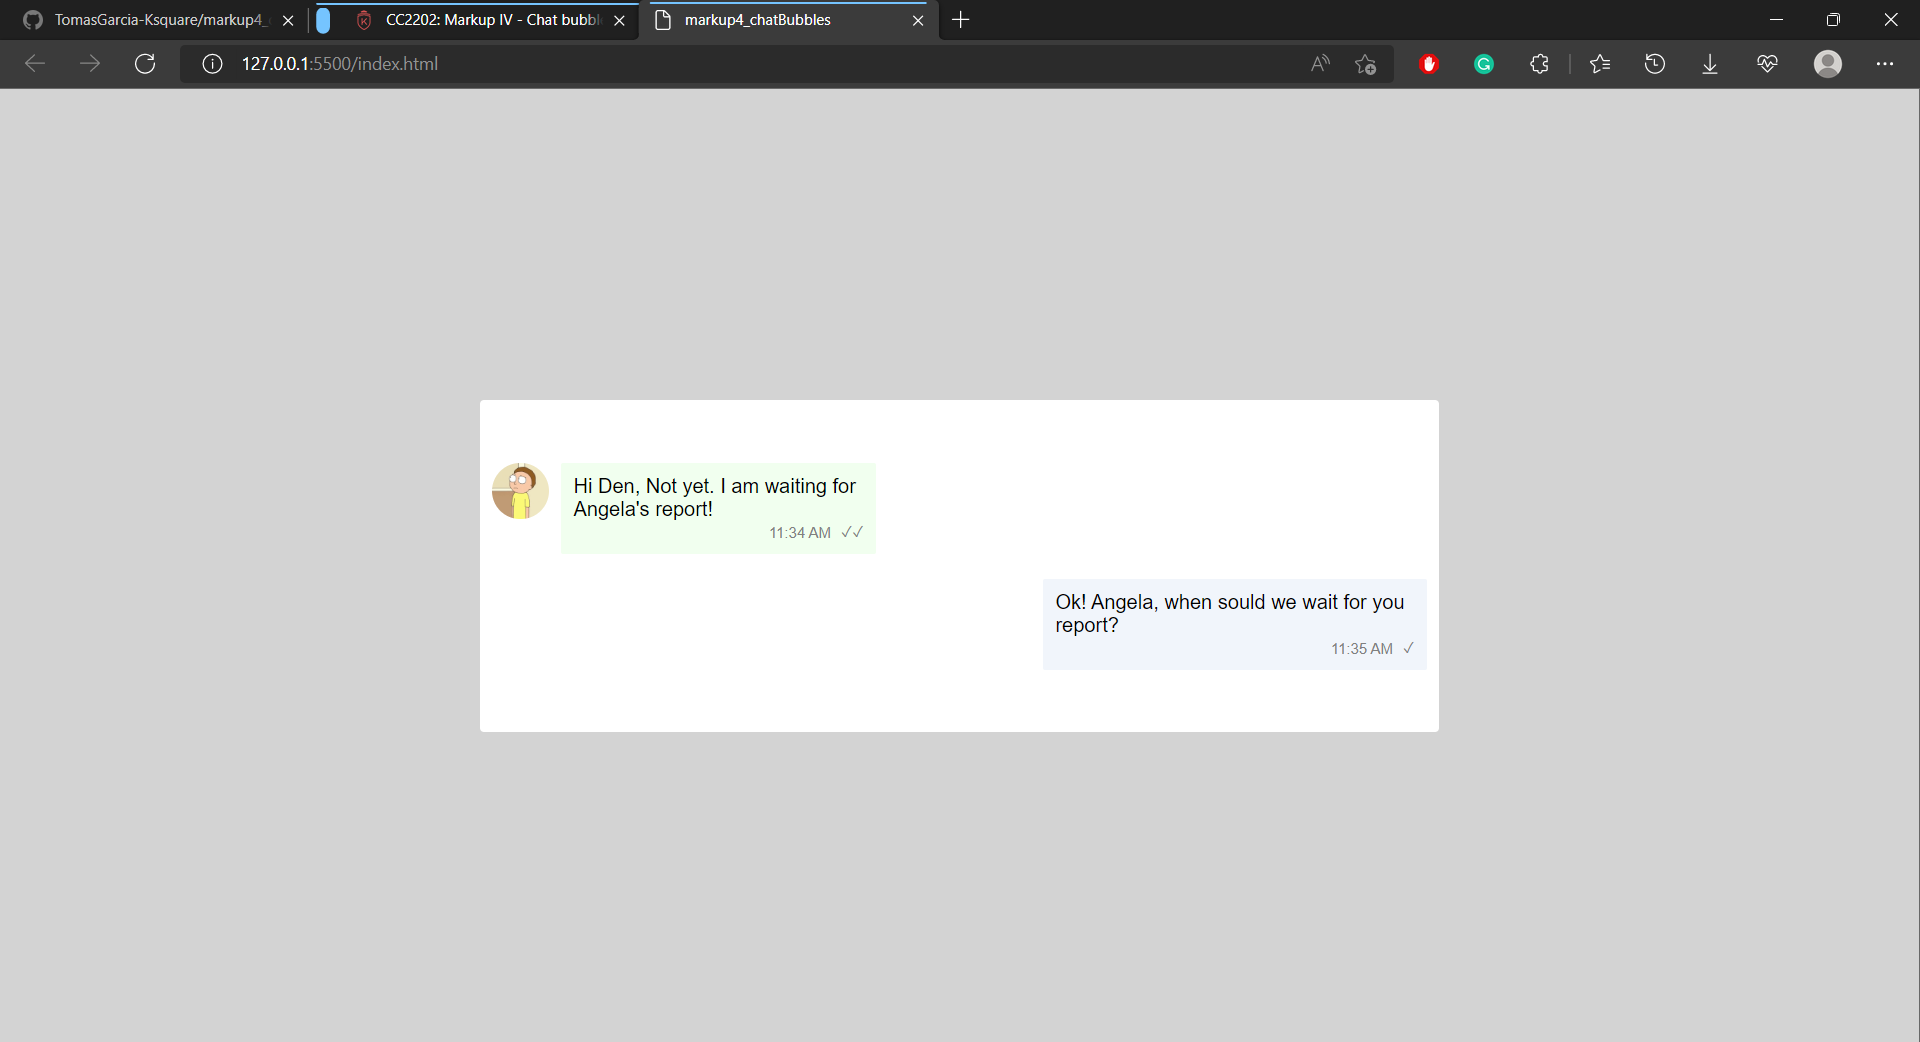
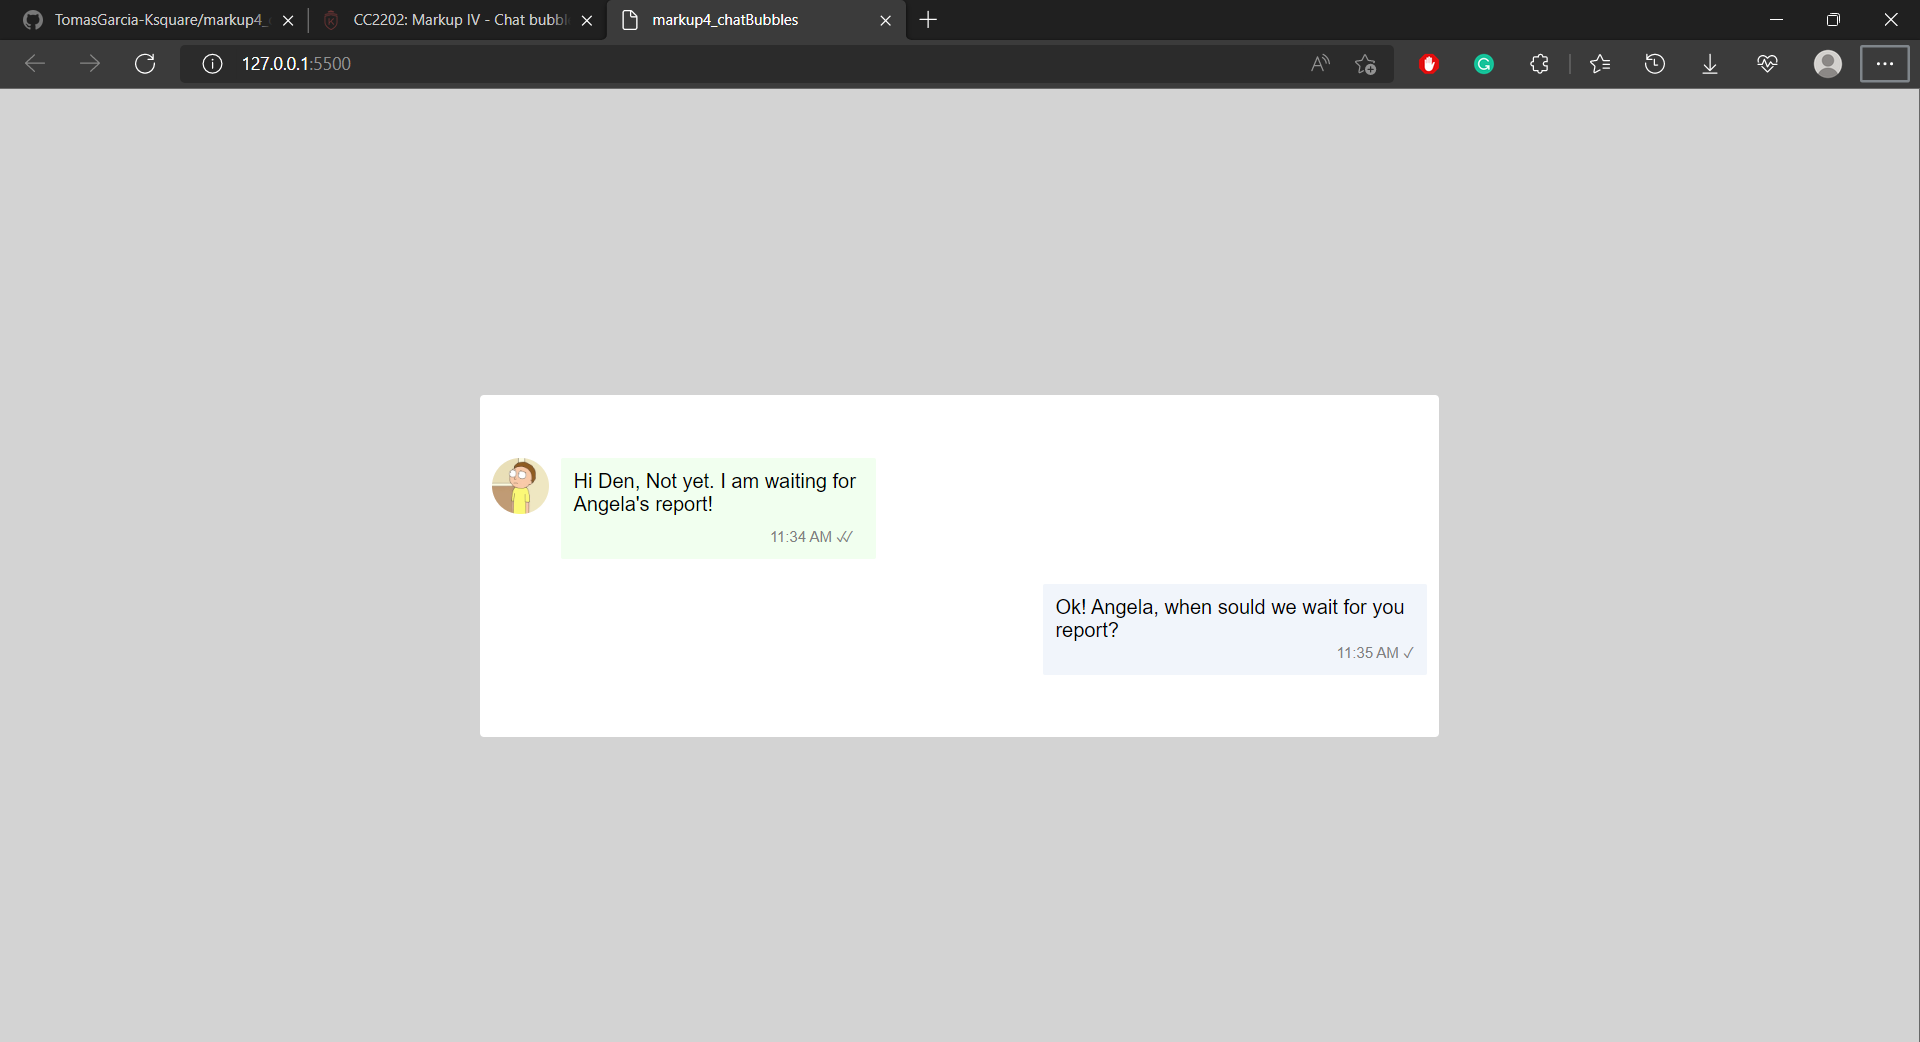
check marks fixed

diff --git a/index.html b/index.html
@@ -26,8 +26,10 @@
                         
                         <div class="timeMesage">
                            
-                            <p class="hourTxt">11:34 AM</p>
-                            <p class="seen">&#10003;&#10003;</p>
+                            <p class="hourTxt recived">11:34 AM &#10003;
+                                <p class="seen">&#10003;</p>
+                            </p>
+                            
                         
                         </div>
 
@@ -46,8 +48,7 @@
                         
                         <div class="timeMesage">
                            
-                            <p class="hourTxt">11:35 AM </p>
-                            <p class="seen">&#10003;</p>
+                            <p class="hourTxt">11:35 AM &#10003;</p>
 
                         </div>
 

diff --git a/styles.css b/styles.css
@@ -115,3 +115,7 @@ body{
 .seen{
     margin: 0;
 }
+
+.hourTxt.recived{
+    transform: translate(12px, 0px);
+}
